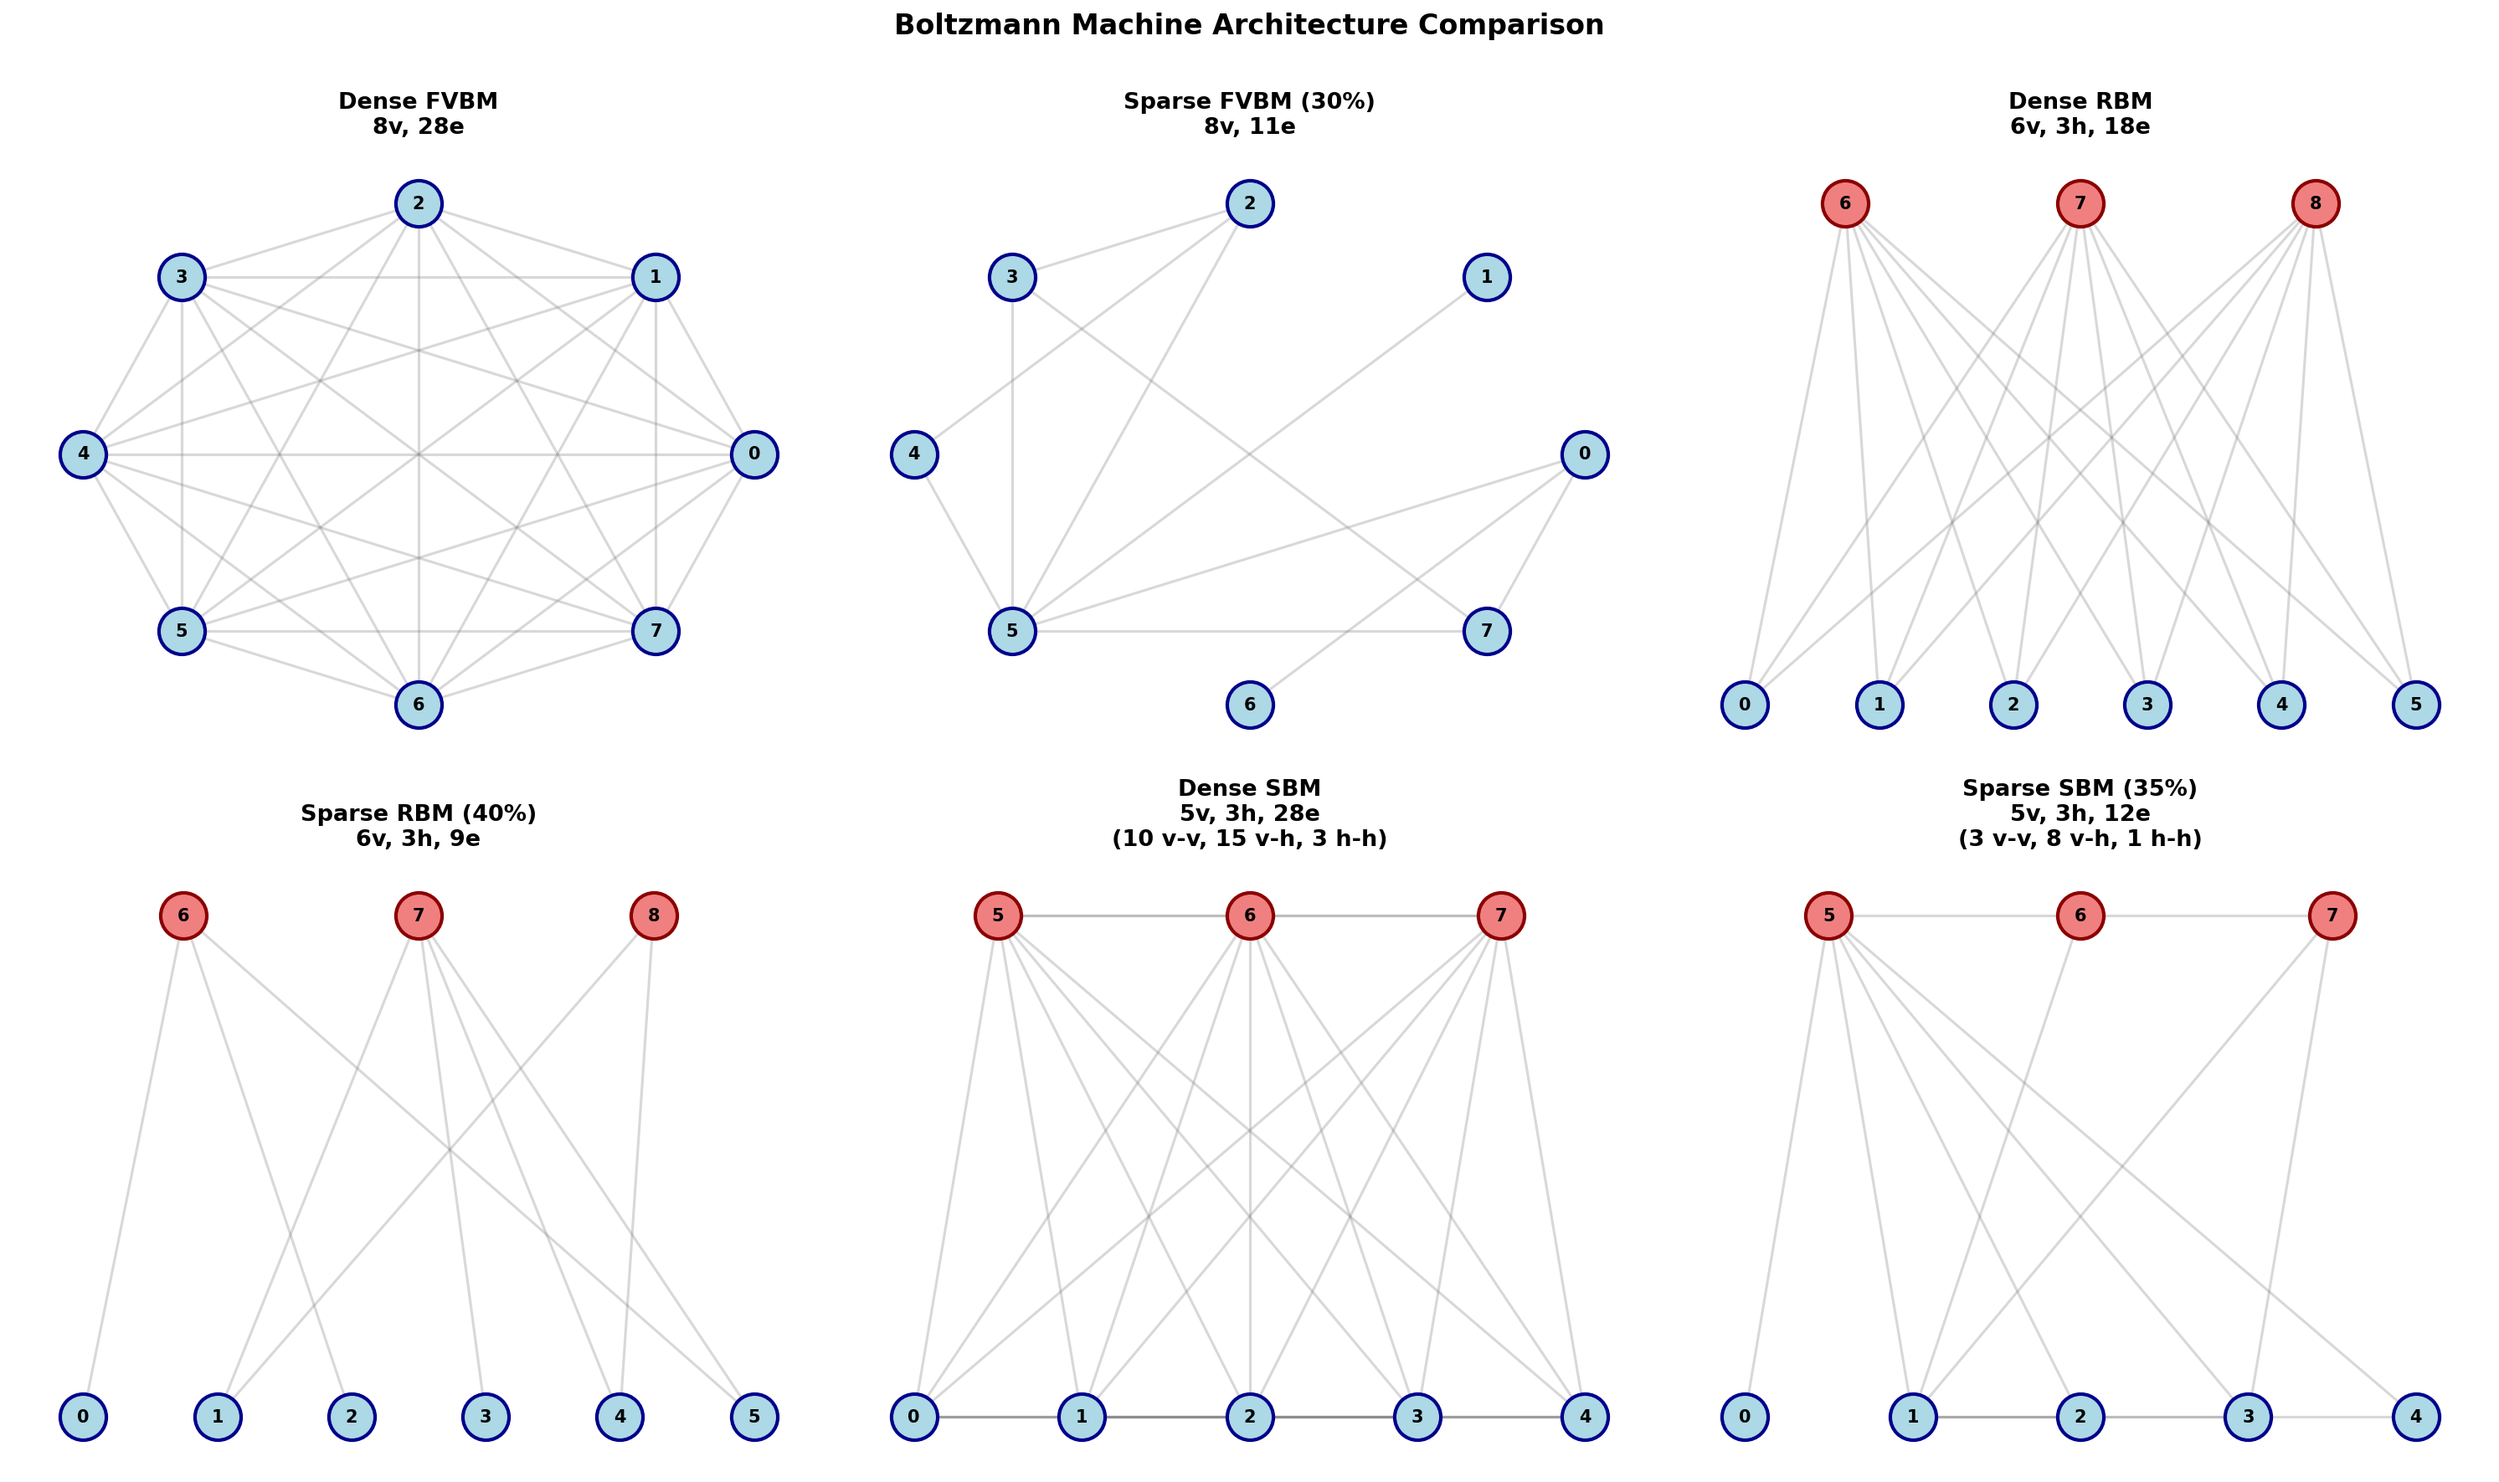
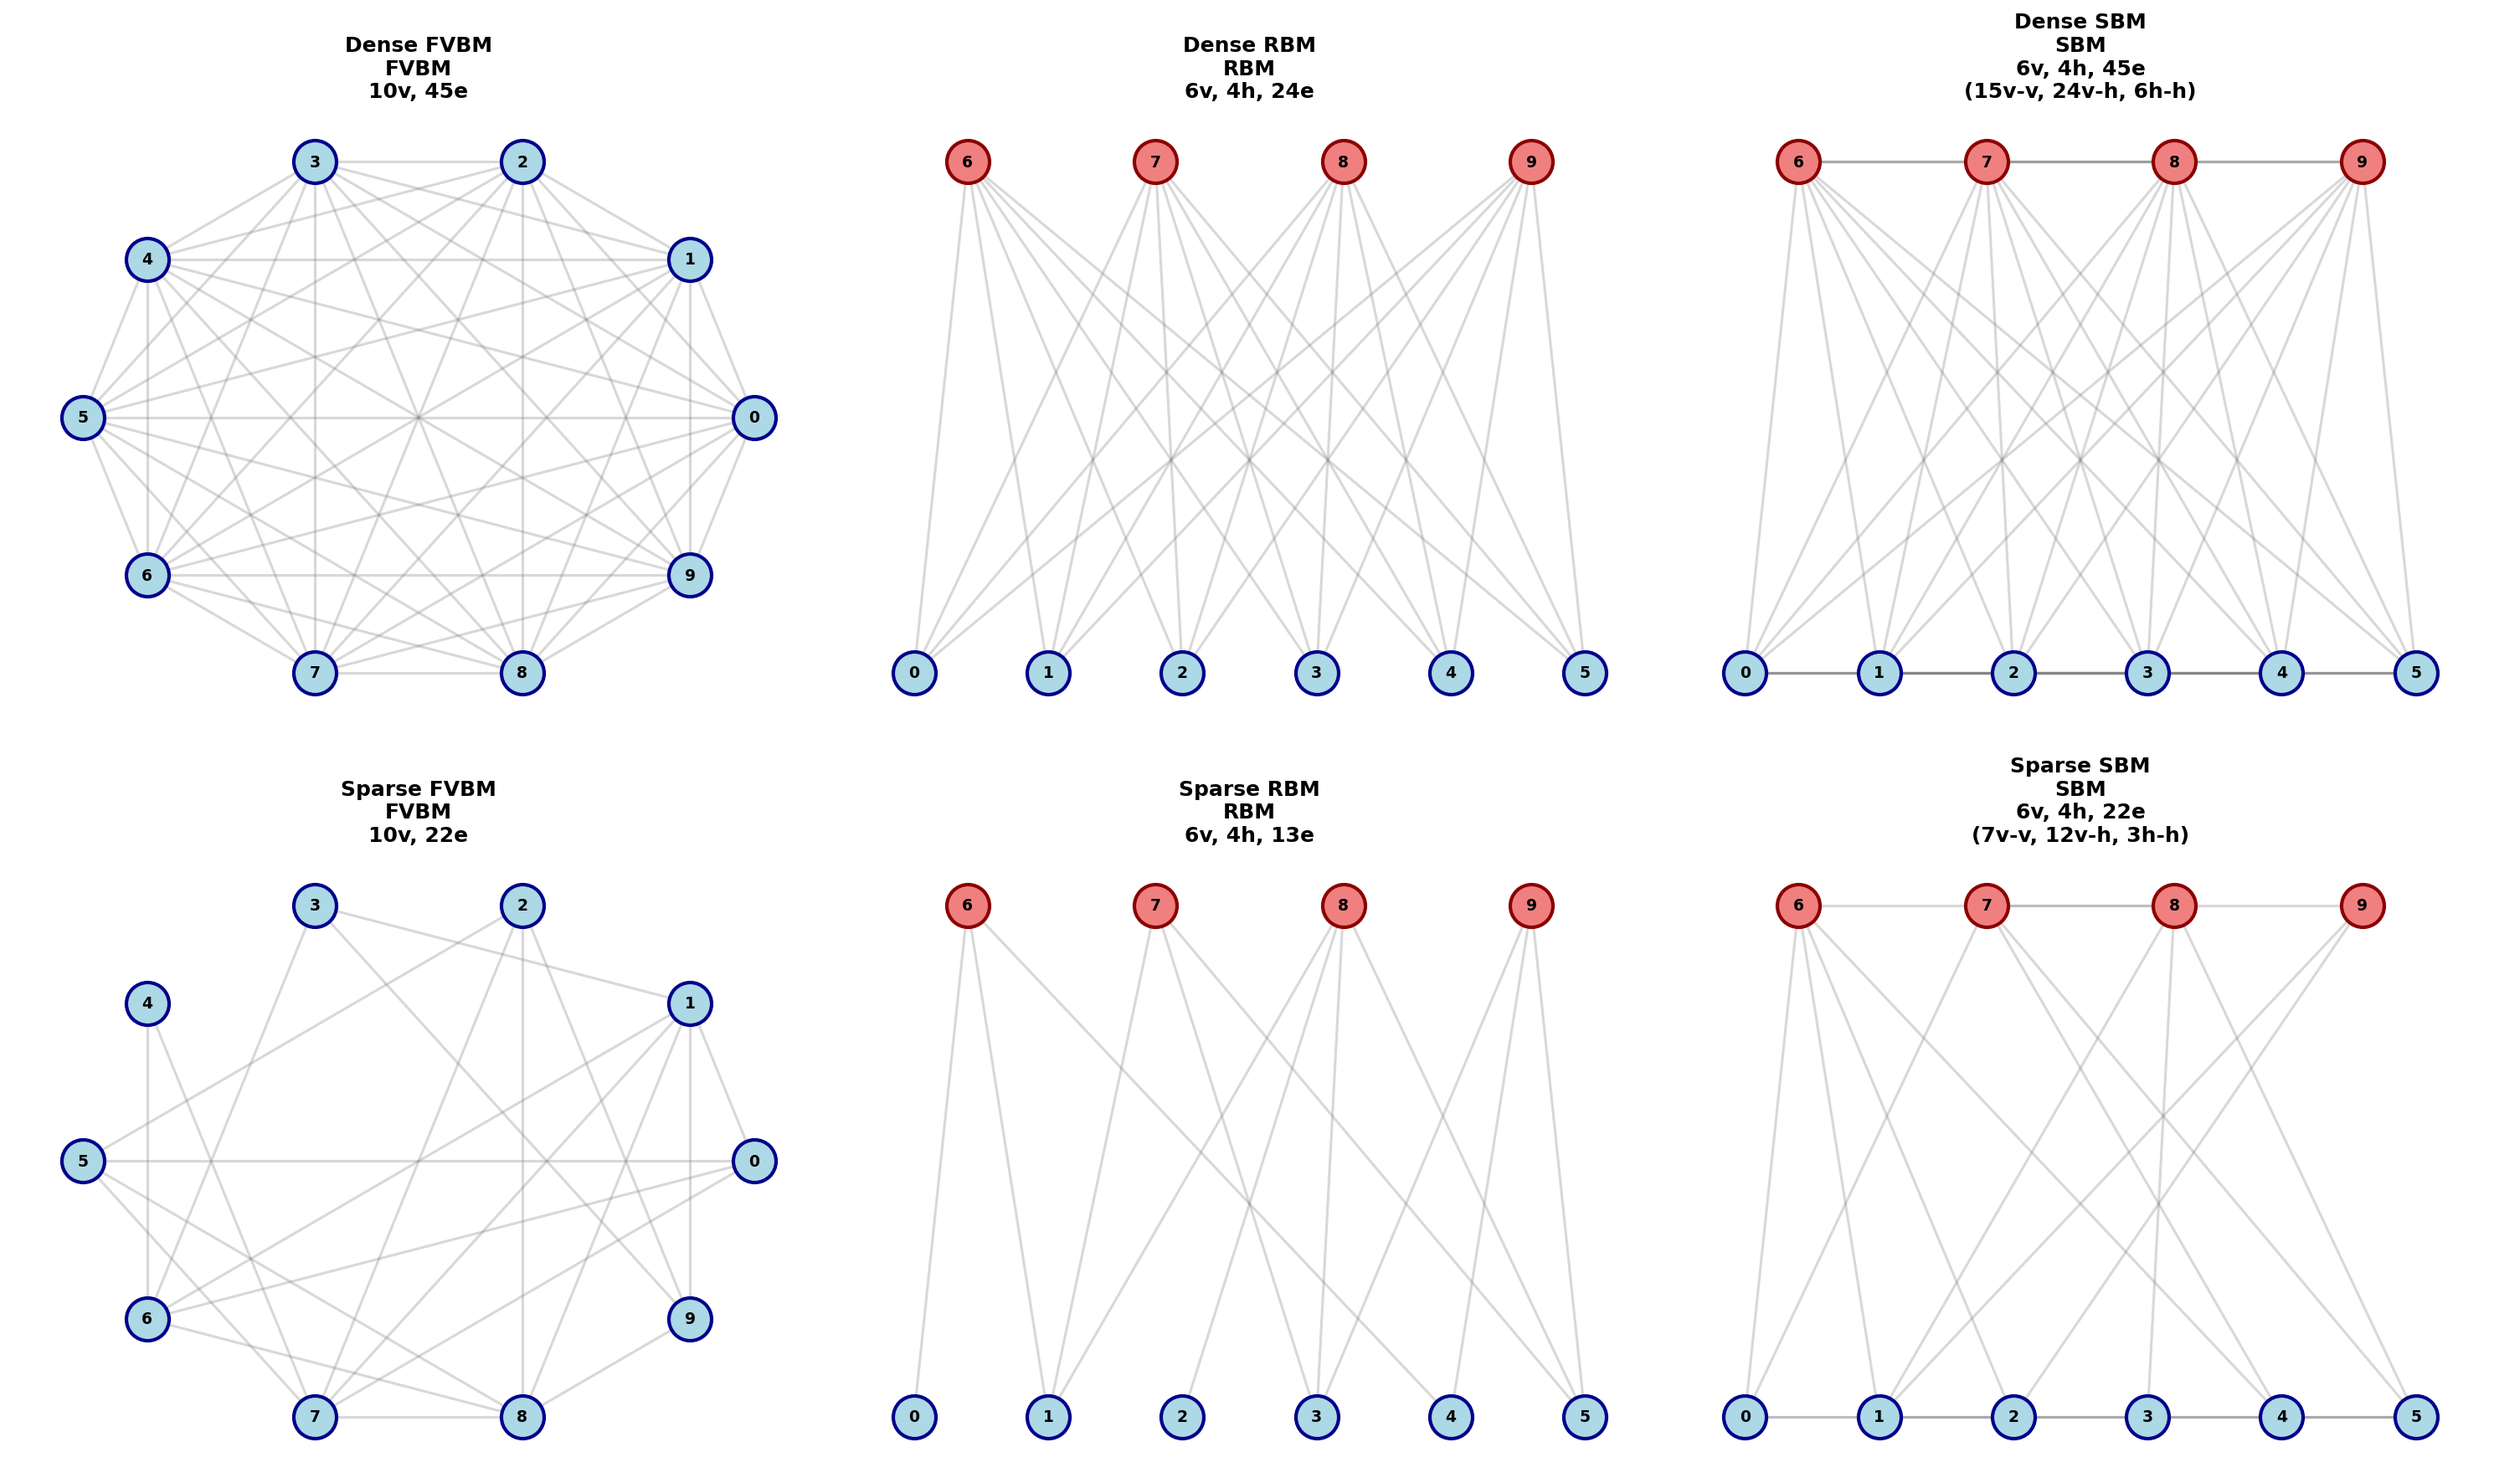
Graph rendering added

diff --git a/regenerate_comparison.py b/regenerate_comparison.py
@@ -1,0 +1,228 @@
+"""
+Regenerate architecture comparison visualization with curved edges.
+"""
+
+from utils import compare_topologies, load_config
+
+# Load base config
+base_config = load_config('configs/config.yaml')
+
+# Create 6 configurations: Dense and Sparse for each model type
+configs = []
+
+# Dense FVBM
+config_fvbm_dense = {
+    'seed': 42,
+    'true_model': {
+        'n_visible': 10,
+        'n_hidden': 0,
+        'model_type': 'fvbm',
+        'connectivity': 'dense'
+    }
+}
+configs.append((config_fvbm_dense, 'true_model', 'Dense FVBM'))
+
+# Dense RBM
+config_rbm_dense = {
+    'seed': 42,
+    'true_model': {
+        'n_visible': 6,
+        'n_hidden': 4,
+        'model_type': 'rbm',
+        'connectivity': 'dense'
+    }
+}
+configs.append((config_rbm_dense, 'true_model', 'Dense RBM'))
+
+# Dense SBM
+config_sbm_dense = {
+    'seed': 42,
+    'true_model': {
+        'n_visible': 6,
+        'n_hidden': 4,
+        'model_type': 'sbm',
+        'connectivity': 'dense'
+    }
+}
+configs.append((config_sbm_dense, 'true_model', 'Dense SBM'))
+
+# Sparse FVBM
+config_fvbm_sparse = {
+    'seed': 42,
+    'true_model': {
+        'n_visible': 10,
+        'n_hidden': 0,
+        'model_type': 'fvbm',
+        'connectivity': 'sparse',
+        'connectivity_density': 0.4
+    }
+}
+configs.append((config_fvbm_sparse, 'true_model', 'Sparse FVBM'))
+
+# Sparse RBM
+config_rbm_sparse = {
+    'seed': 42,
+    'true_model': {
+        'n_visible': 6,
+        'n_hidden': 4,
+        'model_type': 'rbm',
+        'connectivity': 'sparse',
+        'connectivity_density': 0.4
+    }
+}
+configs.append((config_rbm_sparse, 'true_model', 'Sparse RBM'))
+
+# Sparse SBM
+config_sbm_sparse = {
+    'seed': 42,
+    'true_model': {
+        'n_visible': 6,
+        'n_hidden': 4,
+        'model_type': 'sbm',
+        'connectivity': 'sparse',
+        'connectivity_density': 0.4
+    }
+}
+configs.append((config_sbm_sparse, 'true_model', 'Sparse SBM'))
+
+# Create comparison in 2x3 grid
+import matplotlib.pyplot as plt
+
+fig = plt.figure(figsize=(20, 12))
+
+# Top row: Dense architectures
+for i, config_tuple in enumerate(configs[:3]):
+    ax = plt.subplot(2, 3, i + 1)
+
+    from utils.topology import create_topology
+    import networkx as nx
+    from utils.graph_viz import _create_layout
+
+    config, model_key, title = config_tuple
+    model_config = config[model_key]
+
+    # Create topology
+    nodes, edges, hidden_nodes = create_topology(
+        n_visible=model_config['n_visible'],
+        n_hidden=model_config['n_hidden'],
+        model_type=model_config['model_type'],
+        connectivity=model_config['connectivity'],
+        connectivity_density=model_config.get('connectivity_density', 0.5),
+        seed=config.get('seed', 42)
+    )
+
+    # Separate visible and hidden
+    visible_nodes = [n for n in nodes if n not in hidden_nodes]
+
+    # Create graph
+    G = nx.Graph()
+    G.add_nodes_from(nodes)
+    G.add_edges_from(edges)
+
+    # Layout
+    pos = _create_layout(visible_nodes, hidden_nodes, model_config['model_type'])
+
+    # Draw edges with curved connections for bipartite layouts
+    if model_config['model_type'] in ["rbm", "sbm"]:
+        nx.draw_networkx_edges(G, pos, edge_color='gray', alpha=0.3, width=1.5, ax=ax,
+                               connectionstyle='arc3,rad=0.1')
+    else:
+        nx.draw_networkx_edges(G, pos, edge_color='gray', alpha=0.3, width=1.5, ax=ax)
+
+    # Draw nodes
+    nx.draw_networkx_nodes(G, pos, nodelist=visible_nodes, node_color='lightblue',
+                          node_size=600, edgecolors='darkblue', linewidths=2, ax=ax)
+
+    if hidden_nodes:
+        nx.draw_networkx_nodes(G, pos, nodelist=hidden_nodes, node_color='lightcoral',
+                              node_size=600, edgecolors='darkred', linewidths=2, ax=ax)
+
+    nx.draw_networkx_labels(G, pos, font_size=9, font_weight='bold', ax=ax)
+
+    # Title with stats
+    model_type_full = {'fvbm': 'FVBM', 'rbm': 'RBM', 'sbm': 'SBM'}
+    stats = f"{model_type_full.get(model_config['model_type'], 'BM')}"
+    stats += f"\n{len(visible_nodes)}v"
+    if hidden_nodes:
+        stats += f", {len(hidden_nodes)}h"
+    stats += f", {len(edges)}e"
+
+    # Add edge type breakdown for SBM
+    if model_config['model_type'] == 'sbm' and len(edges) > 0:
+        vv_edges = sum(1 for u, v in edges if u in visible_nodes and v in visible_nodes)
+        vh_edges = sum(1 for u, v in edges if (u in visible_nodes and v in hidden_nodes) or
+                                                 (u in hidden_nodes and v in visible_nodes))
+        hh_edges = sum(1 for u, v in edges if u in hidden_nodes and v in hidden_nodes)
+        stats += f"\n({vv_edges}v-v, {vh_edges}v-h, {hh_edges}h-h)"
+
+    ax.set_title(f"{title}\n{stats}", fontsize=12, fontweight='bold')
+    ax.axis('off')
+
+# Bottom row: Sparse architectures
+for i, config_tuple in enumerate(configs[3:]):
+    ax = plt.subplot(2, 3, i + 4)
+
+    config, model_key, title = config_tuple
+    model_config = config[model_key]
+
+    # Create topology
+    nodes, edges, hidden_nodes = create_topology(
+        n_visible=model_config['n_visible'],
+        n_hidden=model_config['n_hidden'],
+        model_type=model_config['model_type'],
+        connectivity=model_config['connectivity'],
+        connectivity_density=model_config.get('connectivity_density', 0.5),
+        seed=config.get('seed', 42)
+    )
+
+    # Separate visible and hidden
+    visible_nodes = [n for n in nodes if n not in hidden_nodes]
+
+    # Create graph
+    G = nx.Graph()
+    G.add_nodes_from(nodes)
+    G.add_edges_from(edges)
+
+    # Layout
+    pos = _create_layout(visible_nodes, hidden_nodes, model_config['model_type'])
+
+    # Draw edges with curved connections for bipartite layouts
+    if model_config['model_type'] in ["rbm", "sbm"]:
+        nx.draw_networkx_edges(G, pos, edge_color='gray', alpha=0.3, width=1.5, ax=ax,
+                               connectionstyle='arc3,rad=0.1')
+    else:
+        nx.draw_networkx_edges(G, pos, edge_color='gray', alpha=0.3, width=1.5, ax=ax)
+
+    # Draw nodes
+    nx.draw_networkx_nodes(G, pos, nodelist=visible_nodes, node_color='lightblue',
+                          node_size=600, edgecolors='darkblue', linewidths=2, ax=ax)
+
+    if hidden_nodes:
+        nx.draw_networkx_nodes(G, pos, nodelist=hidden_nodes, node_color='lightcoral',
+                              node_size=600, edgecolors='darkred', linewidths=2, ax=ax)
+
+    nx.draw_networkx_labels(G, pos, font_size=9, font_weight='bold', ax=ax)
+
+    # Title with stats
+    model_type_full = {'fvbm': 'FVBM', 'rbm': 'RBM', 'sbm': 'SBM'}
+    stats = f"{model_type_full.get(model_config['model_type'], 'BM')}"
+    stats += f"\n{len(visible_nodes)}v"
+    if hidden_nodes:
+        stats += f", {len(hidden_nodes)}h"
+    stats += f", {len(edges)}e"
+
+    # Add edge type breakdown for SBM
+    if model_config['model_type'] == 'sbm' and len(edges) > 0:
+        vv_edges = sum(1 for u, v in edges if u in visible_nodes and v in visible_nodes)
+        vh_edges = sum(1 for u, v in edges if (u in visible_nodes and v in hidden_nodes) or
+                                                 (u in hidden_nodes and v in visible_nodes))
+        hh_edges = sum(1 for u, v in edges if u in hidden_nodes and v in hidden_nodes)
+        stats += f"\n({vv_edges}v-v, {vh_edges}v-h, {hh_edges}h-h)"
+
+    ax.set_title(f"{title}\n{stats}", fontsize=12, fontweight='bold')
+    ax.axis('off')
+
+plt.tight_layout()
+plt.savefig('docs/architecture_comparison.png', dpi=150, bbox_inches='tight')
+print("Updated architecture comparison saved to: docs/architecture_comparison.png")
+print("\nCurved edges now show all connections clearly in Dense RBM and Dense SBM!")

diff --git a/utils/graph_viz.py b/utils/graph_viz.py
@@ -54,14 +54,26 @@ def visualize_bm_graph(
     # Create figure
     fig, ax = plt.subplots(figsize=figsize)
 
-    # Draw edges
-    nx.draw_networkx_edges(
-        G, pos,
-        edge_color='gray',
-        alpha=0.3,
-        width=1.5,
-        ax=ax
-    )
+    # Draw edges with curved connections for bipartite layouts
+    if model_type in ["rbm", "sbm"]:
+        # Use curved edges to show all connections clearly
+        nx.draw_networkx_edges(
+            G, pos,
+            edge_color='gray',
+            alpha=0.3,
+            width=1.5,
+            ax=ax,
+            connectionstyle='arc3,rad=0.1'
+        )
+    else:
+        # Straight edges for FVBM (circular layout)
+        nx.draw_networkx_edges(
+            G, pos,
+            edge_color='gray',
+            alpha=0.3,
+            width=1.5,
+            ax=ax
+        )
 
     # Draw visible nodes
     nx.draw_networkx_nodes(
@@ -276,8 +288,13 @@ def compare_topologies(
         # Layout
         pos = _create_layout(visible_nodes, hidden_nodes, model_config['model_type'])
 
-        # Draw
-        nx.draw_networkx_edges(G, pos, edge_color='gray', alpha=0.3, width=1.5, ax=ax)
+        # Draw edges with curved connections for bipartite layouts
+        if model_config['model_type'] in ["rbm", "sbm"]:
+            nx.draw_networkx_edges(G, pos, edge_color='gray', alpha=0.3, width=1.5, ax=ax,
+                                   connectionstyle='arc3,rad=0.1')
+        else:
+            nx.draw_networkx_edges(G, pos, edge_color='gray', alpha=0.3, width=1.5, ax=ax)
+
         nx.draw_networkx_nodes(G, pos, nodelist=visible_nodes, node_color='lightblue',
                                node_size=600, edgecolors='darkblue', linewidths=2, ax=ax)
 
